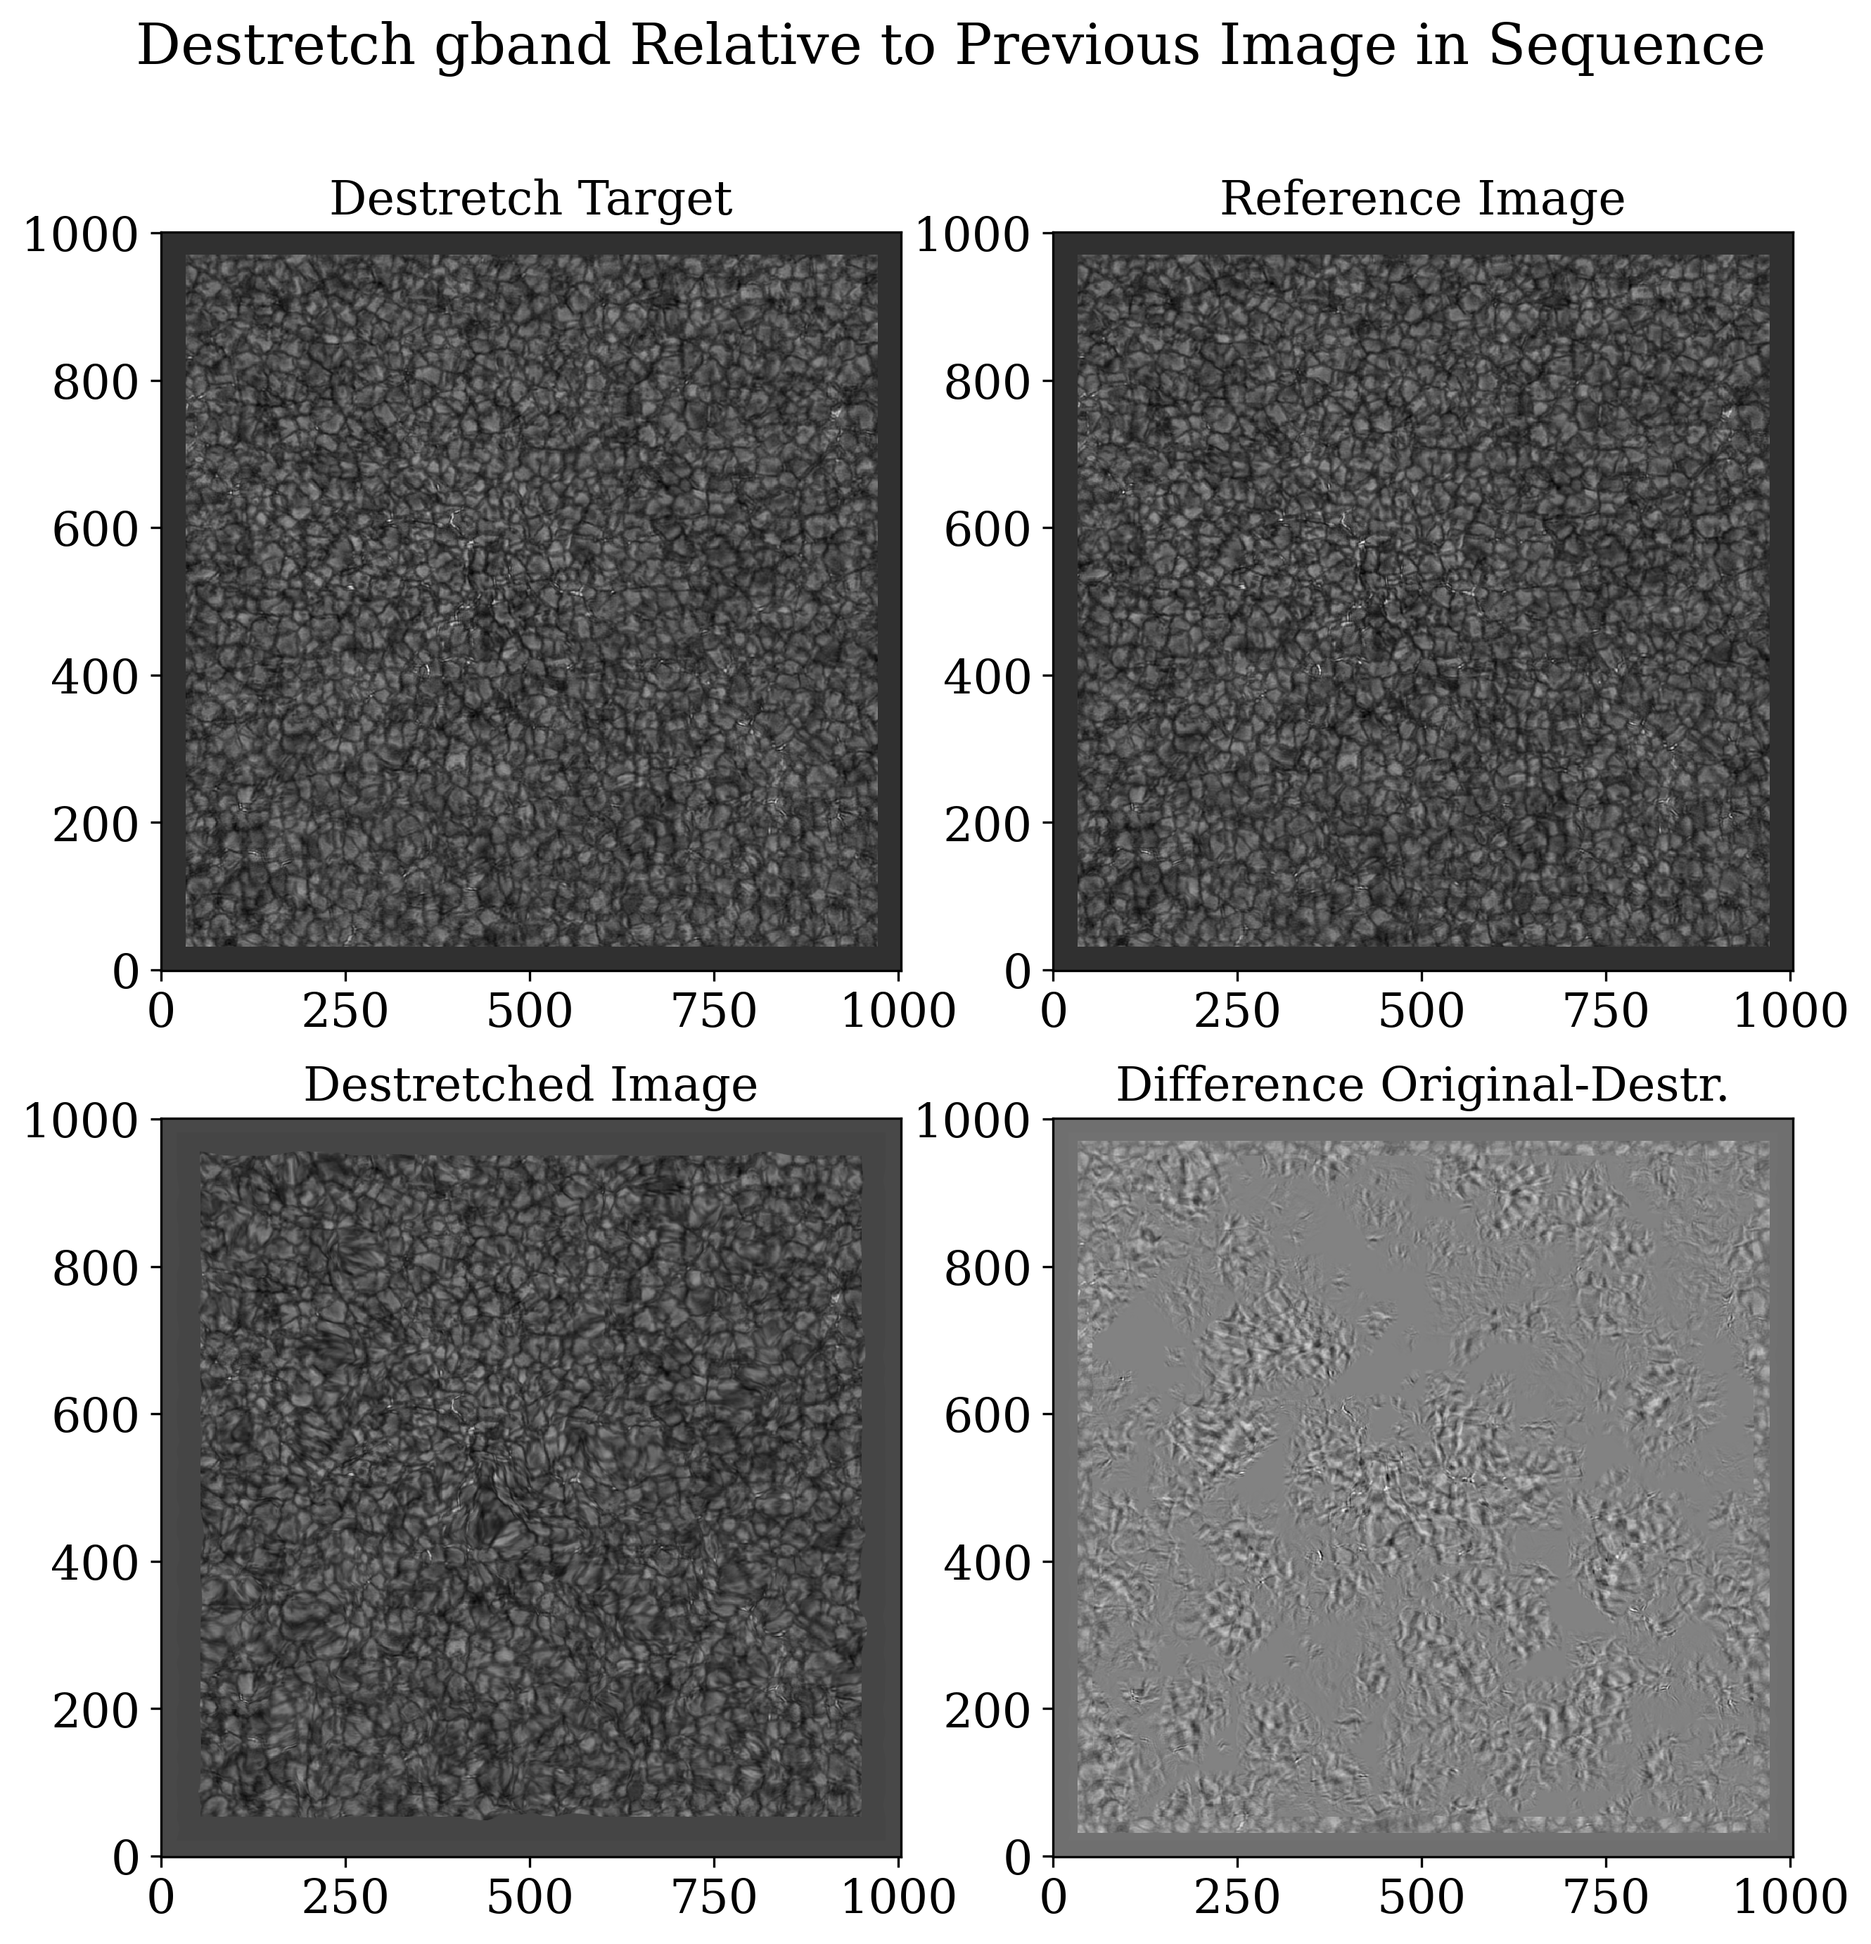
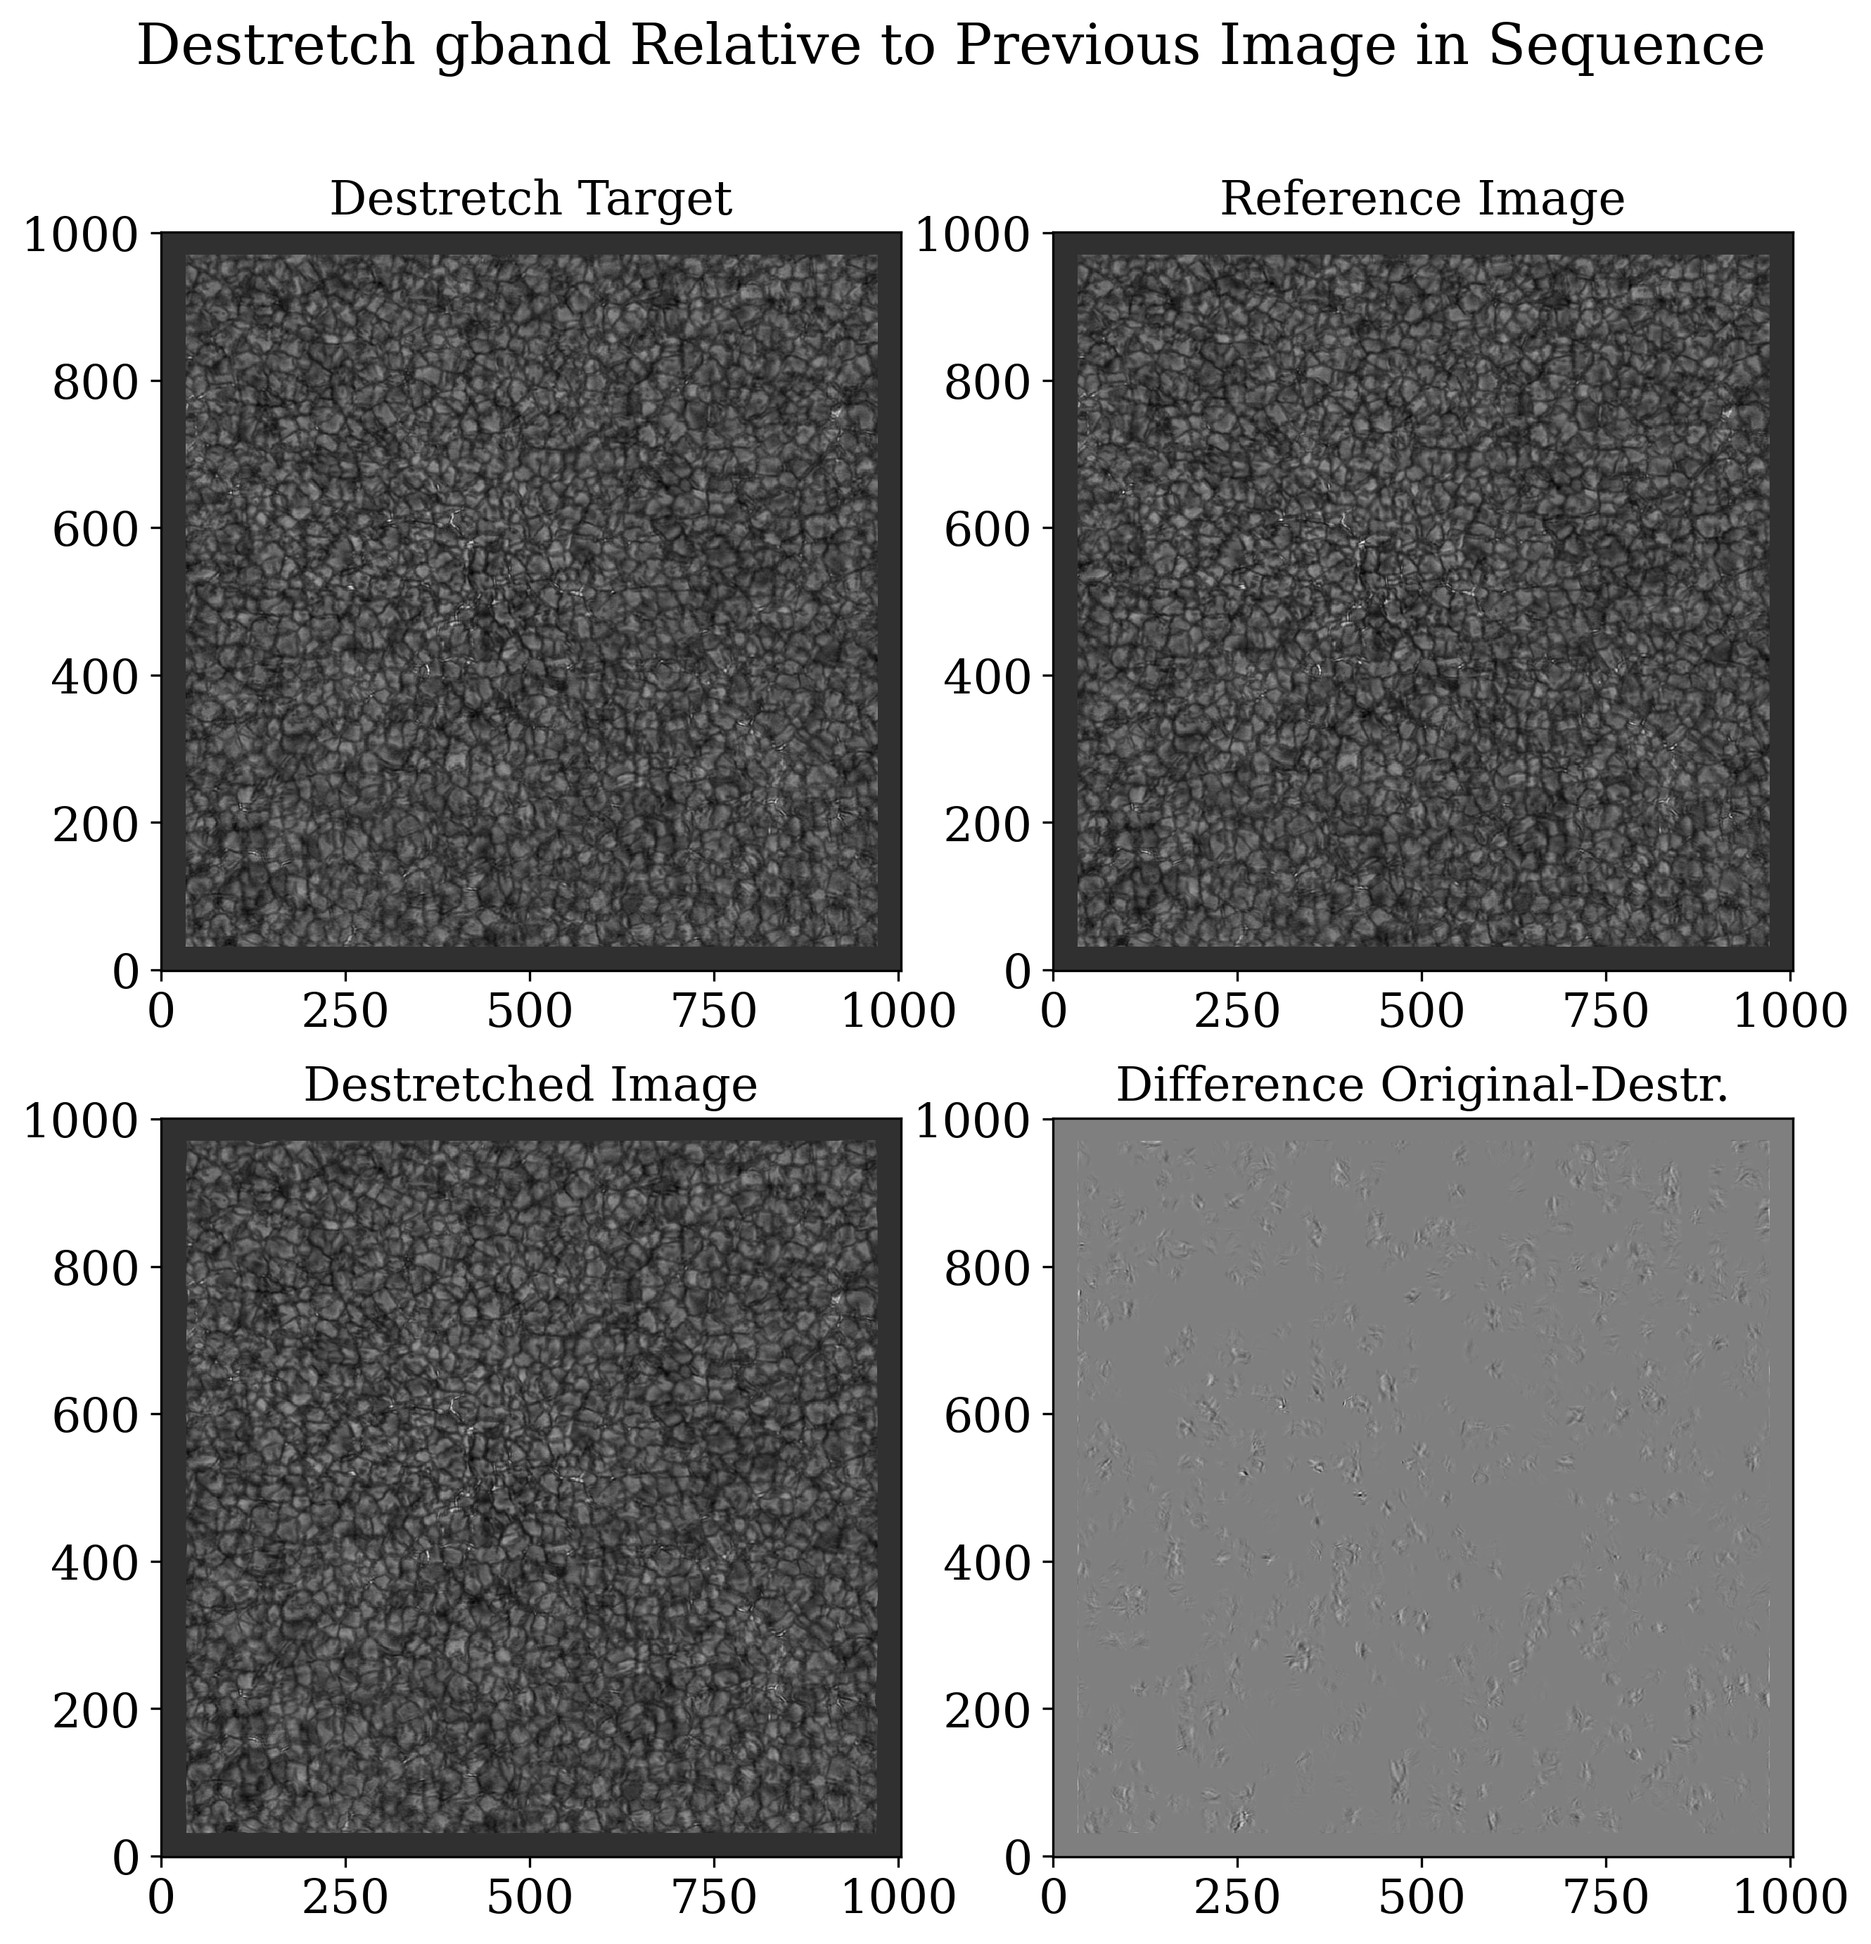
Fixed windowing

diff --git a/pyDestretch.py b/pyDestretch.py
@@ -147,6 +147,7 @@ class Destretch:
         self.wxy = None
         self.bound_size = None
         self.control_size = None
+        self.destretch_image = None
 
     def perform_destretch(self):
         """Perform image destretch. There are several cases to account for here:
@@ -166,13 +167,13 @@ class Destretch:
                     rcps = self.mkcps()
                     tcps = self.cps(rcps)
                     self.warp_vectors = [self.doreg(rcps, tcps)]
-                    self.destretch_target = scindi.map_coordinates(
+                    self.destretch_image = scindi.map_coordinates(
                         self.destretch_target,
                         self.warp_vectors[0],
                         order=1,
                         mode='constant',
                         prefilter=False,
-                        cval=np.nanmean(self.destretch_target)
+                        cval=0
                     )
             else:
                 self.warp_vectors = []
@@ -189,13 +190,13 @@ class Destretch:
                         tcps = self.cps(rcps)
                         wv = self.doreg(rcps, tcps)
                         self.warp_vectors.append(wv)
-                        self.destretch_target = scindi.map_coordinates(
+                        self.destretch_image = scindi.map_coordinates(
                             self.destretch_target,
                             wv,
                             order=1,
                             mode='constant',
                             prefilter=False,
-                            cval=np.nanmean(self.destretch_target)
+                            cval=0
                         )
         else:
             if type(self.warp_vectors) is list:
@@ -206,13 +207,13 @@ class Destretch:
                             self.reference_image,
                             tolerance=(self.target_size[0]/4., self.target_size[0]/4.)
                         )
-                    self.destretch_target = scindi.map_coordinates(
+                    self.destretch_image = scindi.map_coordinates(
                         self.destretch_target,
                         self.warp_vectors[i],
                         order=1,
                         mode='constant',
                         prefilter=False,
-                        cval=np.nanmean(self.destretch_target)
+                        cval=0
                     )
             else:
                 if (self.kernel_size == 0) or (self.kernel[0] == 0):
@@ -221,18 +222,21 @@ class Destretch:
                         self.reference_image,
                         tolerance=(self.target_size[0]/4., self.target_size[0]/4.)
                     )
-                self.destretch_target = scindi.map_coordinates(
+                self.destretch_image = scindi.map_coordinates(
                     self.destretch_target,
                     self.warp_vectors,
                     order=1,
                     mode='constant',
                     prefilter=False,
-                    cval=np.nanmean(self.destretch_target)
+                    cval=0
                 )
+
+        mask = self.destretch_image == 0.
+        self.destretch_image[mask] = self.destretch_target[mask]
         if self.return_vectors:
-            return self.destretch_target, self.warp_vectors
+            return self.destretch_image, self.warp_vectors
         else:
-            return self.destretch_target
+            return self.destretch_image
 
     def mkcps(self):
         """Compute reference image control points given the image size and the size of the desired kernel.
@@ -486,7 +490,7 @@ class Destretch:
 
         for i in range(nsubfields):
             if i == (nsubfields - 1):
-                tfc_list.append(tf_coords[i*size_of_subfield :, :])
+                tfc_list.append(tf_coords[i*size_of_subfield:, :])
             else:
                 tfc_list.append(tf_coords[i*size_of_subfield:(i+1)*size_of_subfield, :])
 
